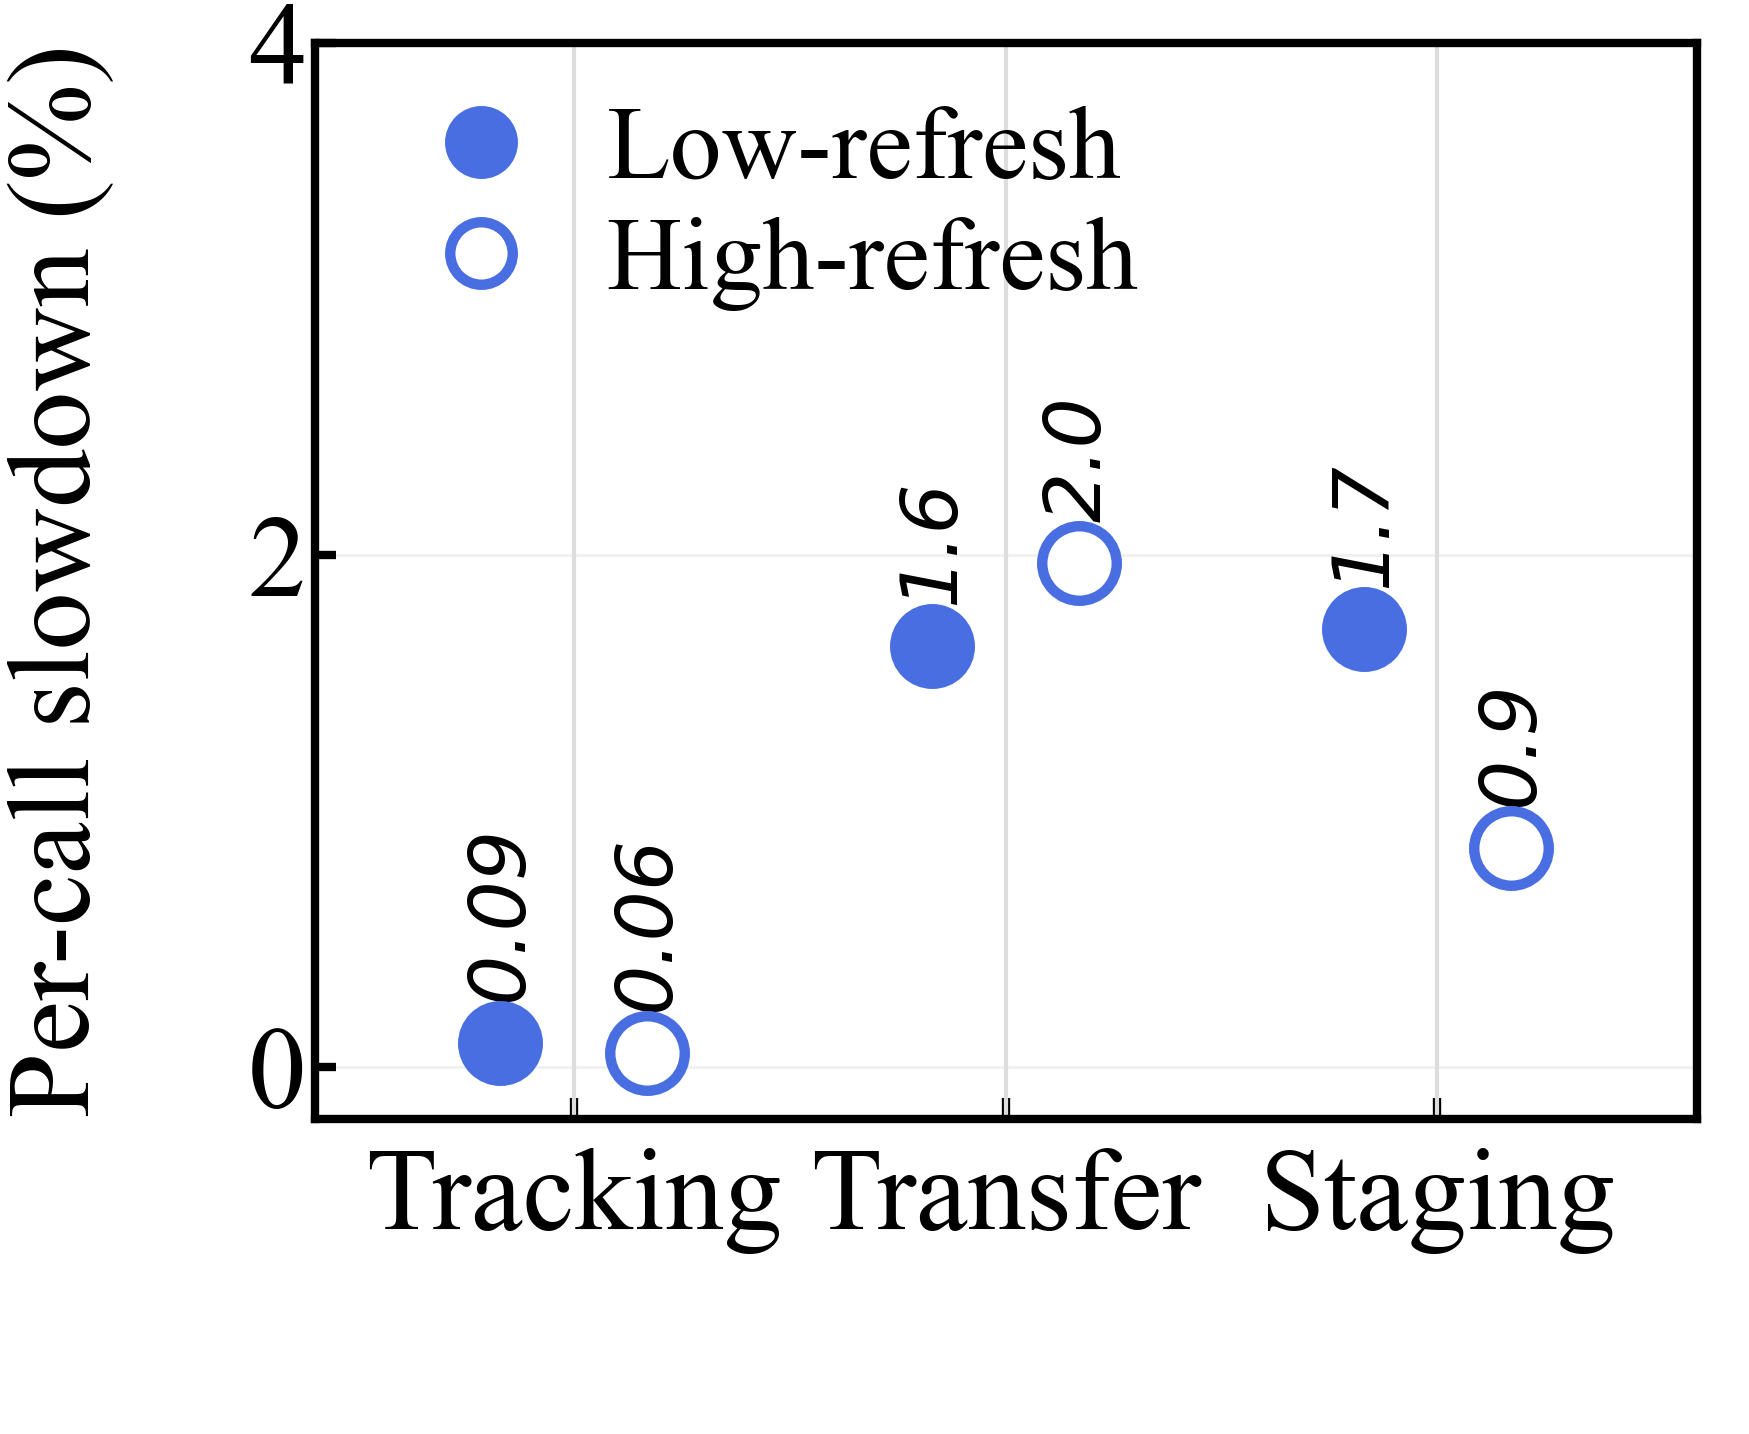
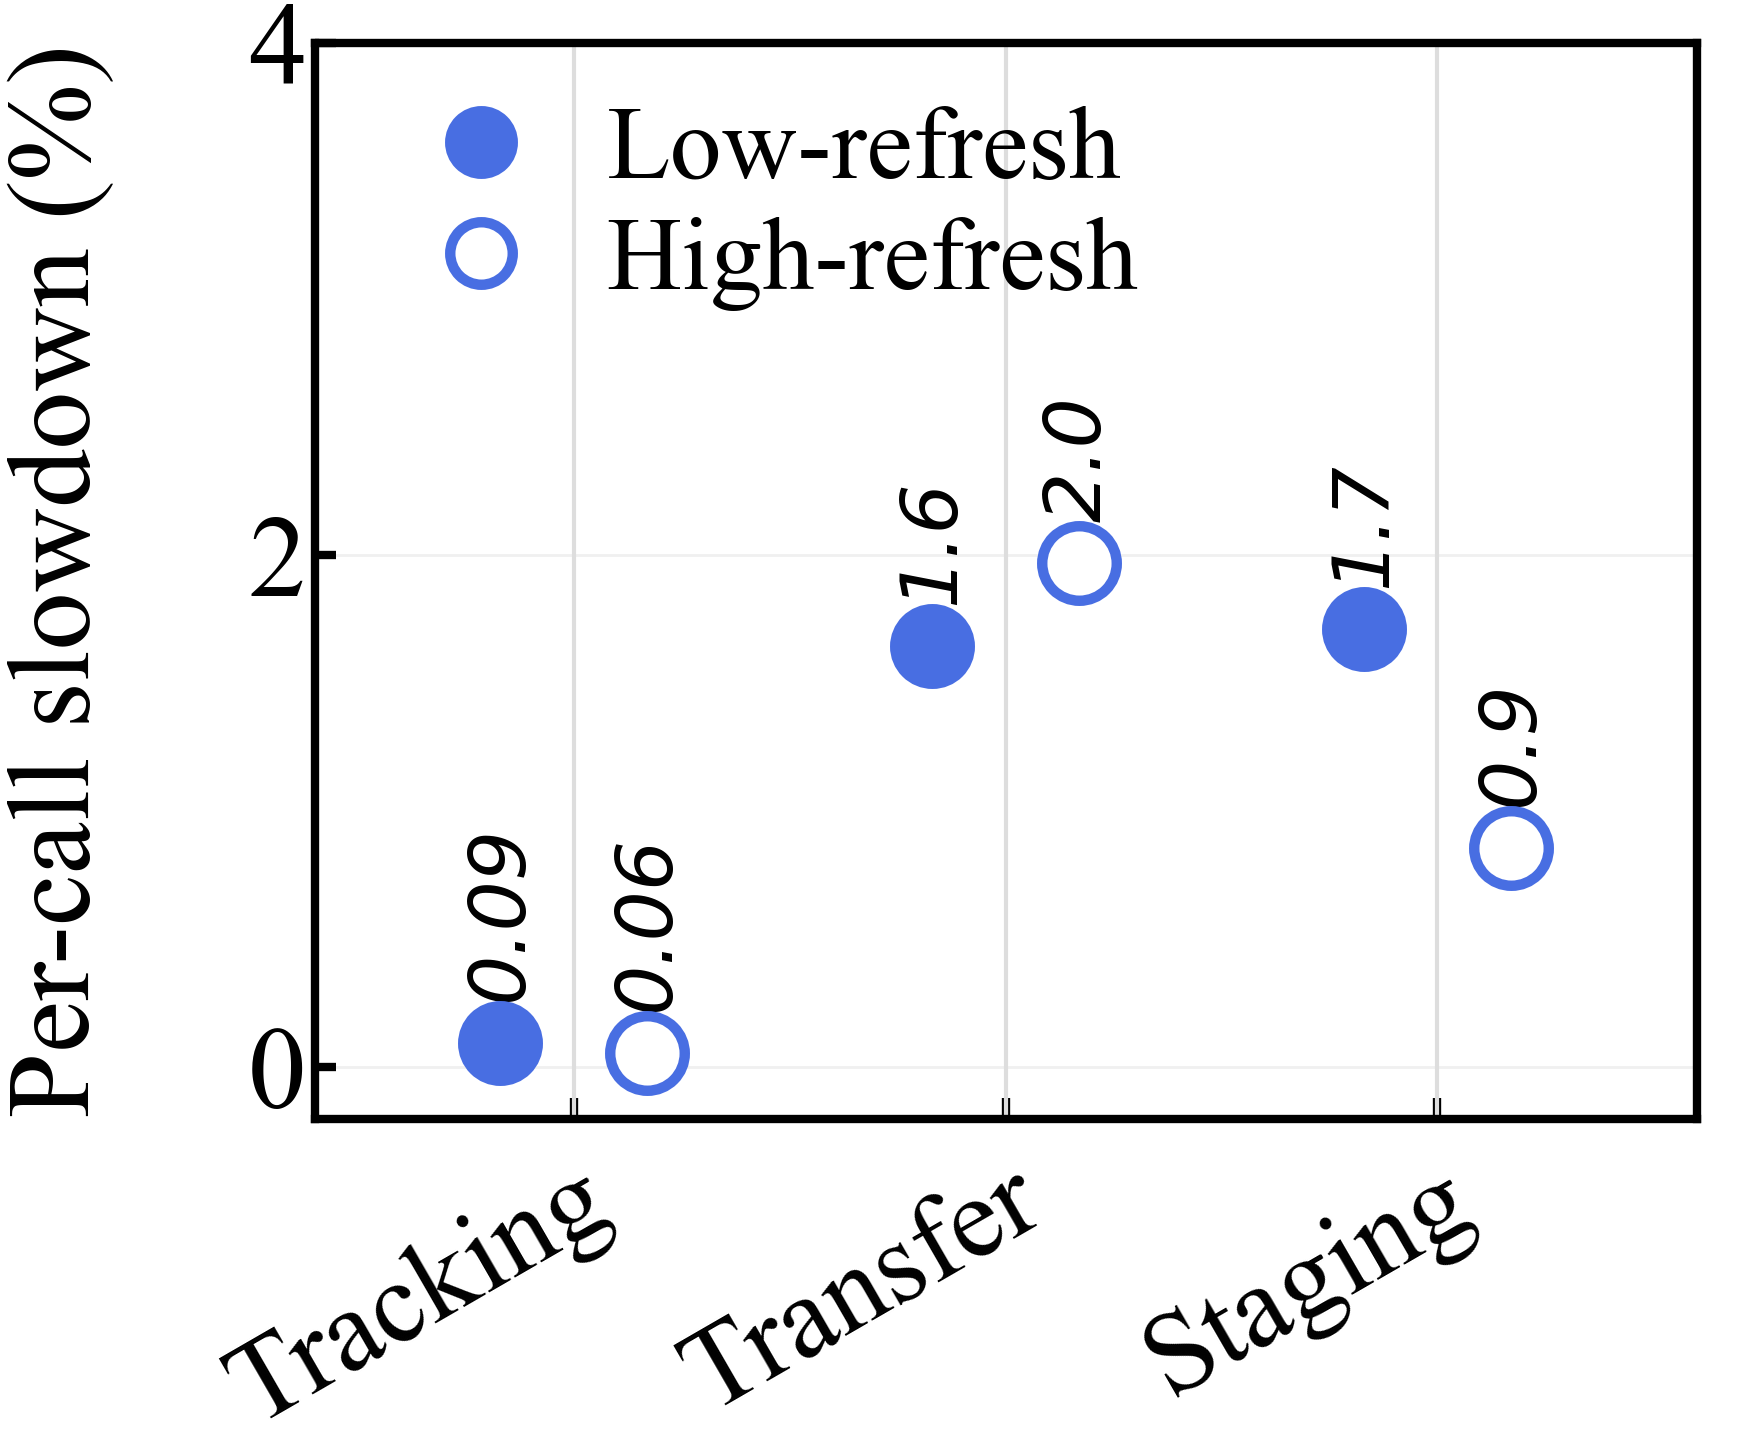
Fig. 14(a) DRAFT 2: operation labels rotated as Fig. 11 (XTICK_ROT 30 deg, ha right, anchor; user 2026-11-03)

Changed region(s): [[0.1235, 0.7978, 0.6792, 0.9819], [0.6484, 0.7978, 0.9262, 0.9512]]

diff --git a/tools/eval/plot_fig14_v2.py b/tools/eval/plot_fig14_v2.py
@@ -21,6 +21,7 @@ from pathlib import Path
 import matplotlib.pyplot as plt
 from matplotlib.lines import Line2D
 
+from plot_fig11 import XTICK_ROT
 from plot_fig7_migration import (ANNOT, ANNOT_FONT, BLUE, DARK_GRAY, DIM_GRAY, FIG_SIZE as FIG_SIZE_78, LABEL, LEGEND, ROOT, TICK,
                                  configure, finish_axes)
 
@@ -63,6 +64,7 @@ def dots(res, out):
     ax.set_xticks(range(len(rows))); ax.set_xticklabels([r[0] for r in rows])
     ax.set_xlim(-0.6, len(rows) - 0.4)
     finish_axes(ax, "Per-call slowdown (%)")
+    plt.setp(ax.get_xticklabels(), rotation=XTICK_ROT, ha="right", rotation_mode="anchor")   # as Fig. 11 (user 2026-11-03)
     ax.yaxis.set_label_coords(-0.145, 0.5)
     ax.grid(axis="x", visible=False)
     ax.set_ylim(-0.2, 4.0)
